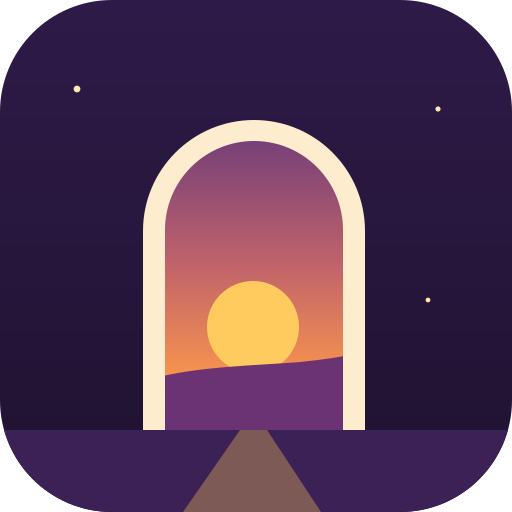
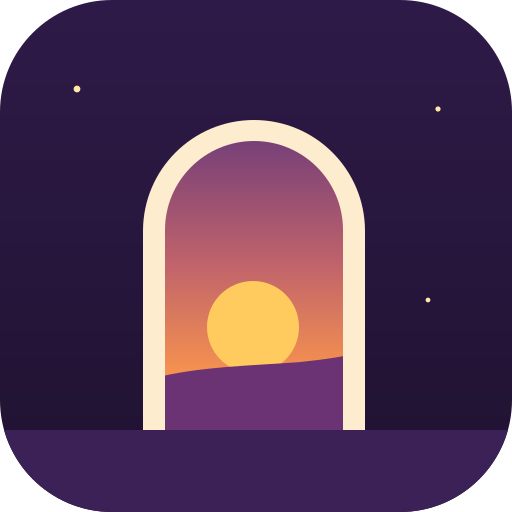
아이콘 H안에서 길(사다리꼴) 뺌
사용자: 길이 있어서 옹졸해 보임. 길 없는 안을 적용하고 직선 도로 안은 dev/icon-ideas/H-door-straight-road.svg에 보관. sw v92d.

Claude-Session: https://claude.ai/code/session_01A2etAarZHPcTgKgBA5Aask

Changed region(s): [[0.3438, 0.8125, 0.625, 1.0]]

diff --git a/beta/sw.js b/beta/sw.js
@@ -1,7 +1,7 @@
 // 습관 퀘스트 service worker: 기기 사본으로 바로 열고, 파일은 뒤에서 새로 받아요.
 const BETA = self.location.pathname.includes('/beta/');
 const PRE = BETA ? 'hqb-' : 'hq-';
-const VERSION = PRE + '2026-11-13-v92c';
+const VERSION = PRE + '2026-11-13-v92d';
 const EXT = VERSION + '-ext';
 const SHELL = ['./', './index.html', './backend.js', './manifest.webmanifest',
   './icons/icon-192.png', './icons/icon-512.png', './icons/icon-180.png', './icons/favicon.ico'];

diff --git a/sw.js b/sw.js
@@ -1,7 +1,7 @@
 // 습관 퀘스트 service worker: 기기 사본으로 바로 열고, 파일은 뒤에서 새로 받아요.
 const BETA = self.location.pathname.includes('/beta/');
 const PRE = BETA ? 'hqb-' : 'hq-';
-const VERSION = PRE + '2026-11-13-v92c';
+const VERSION = PRE + '2026-11-13-v92d';
 const EXT = VERSION + '-ext';
 const SHELL = ['./', './index.html', './backend.js', './manifest.webmanifest',
   './icons/icon-192.png', './icons/icon-512.png', './icons/icon-180.png', './icons/favicon.ico'];
